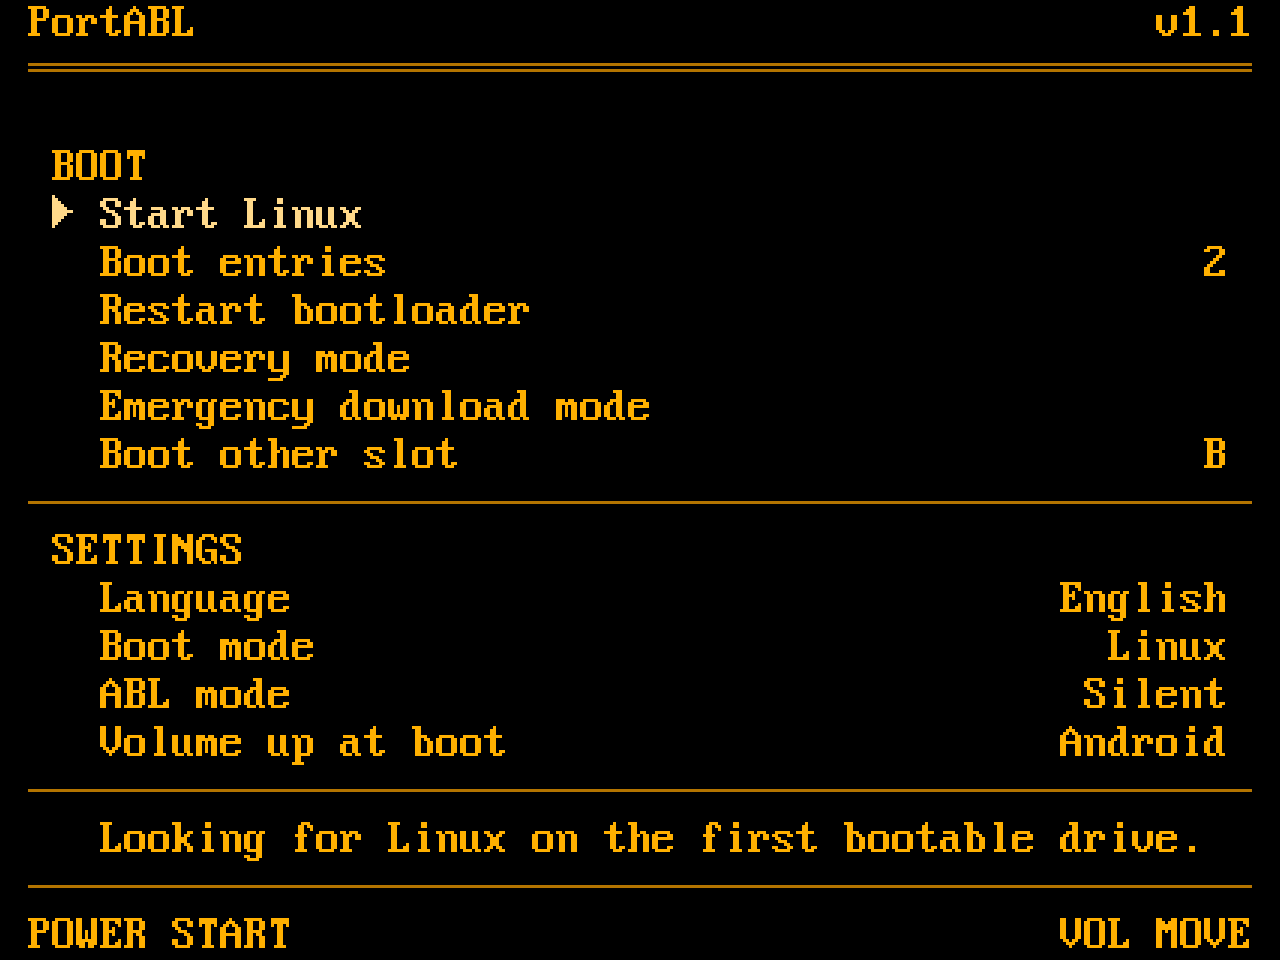
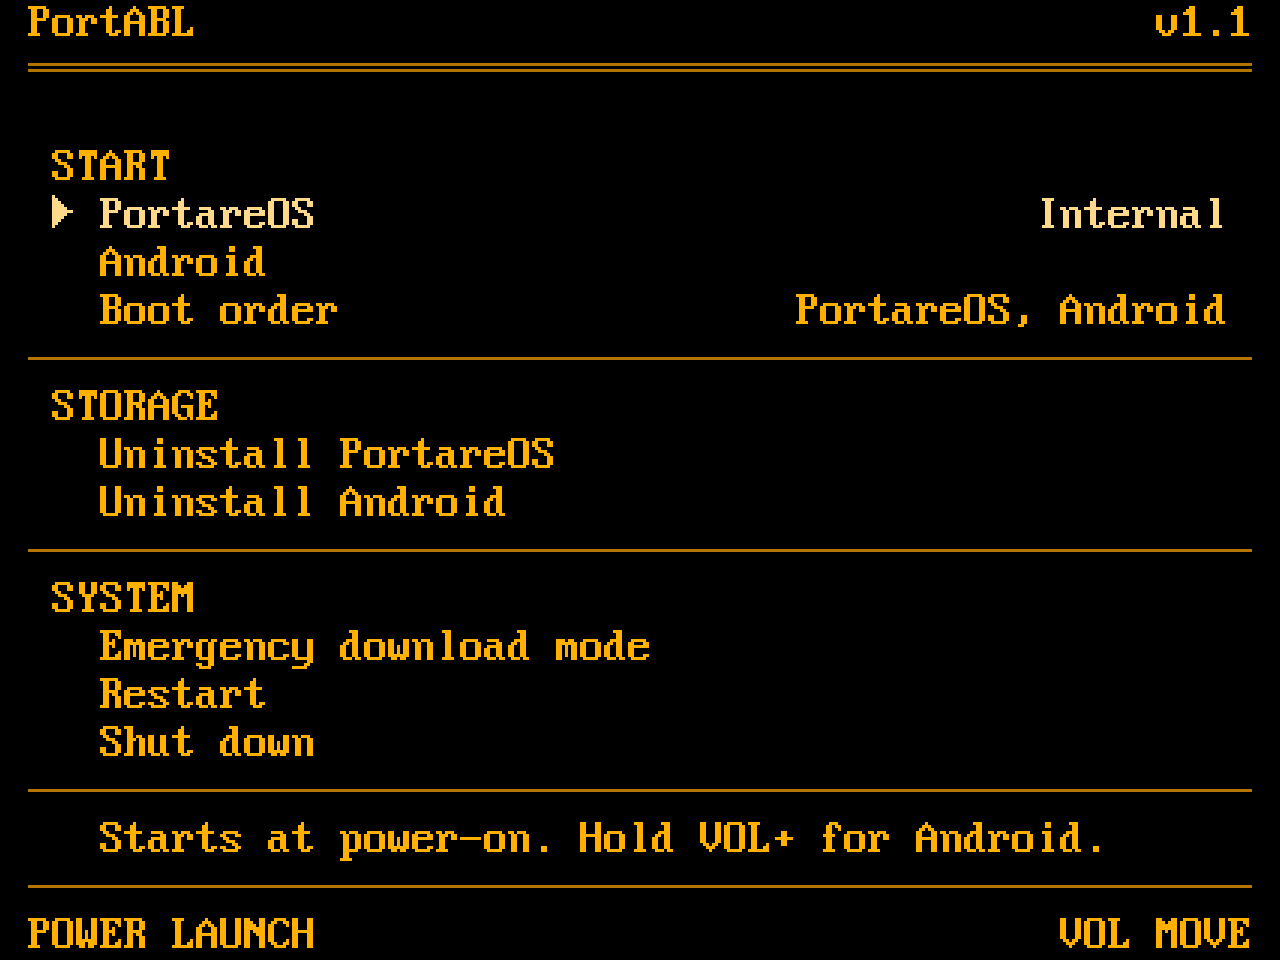
docs: mockup around PortareOS and Android, not OpenABL's options
The menu starts PortareOS or Android, sets which one power-on starts,
installs PortareOS from a card, uninstalls either system, and offers
EDL, restart and shut down. Language, rotation, boot source, entries,
model, ABL mode, logo, recovery, slots, log and device info are gone.

diff --git a/Scripts/mockup.py b/Scripts/mockup.py
@@ -20,6 +20,7 @@ import mockup_png as P
 COLS, ROWS = L.COLS, L.ROWS
 RULE, THIN, row, item = L.RULE, L.THIN, L.row, L.item
 VERSION = open(os.path.join(HERE, "..", "VERSION")).read().strip()
+ARROW = "→"
 
 # No clock: the ABL has the RTC's UTC, not the launcher's local time.
 def header(*crumbs):
@@ -45,129 +46,128 @@ def fill(lines, upto):
 def label(text):
     return "  " + text.upper()
 
-# The whole main menu as the Nova shows it: A/B slots, an internal install
-# (so Boot source and Uninstall CFW), the menu built into the ABL (so no
-# Menu timeout), and two places Start can boot from.
-MENU = [label("Boot"),
-        ("Start Linux", "", "START"),
-        ("Boot entries", "2", "OPEN"),
-        ("Restart bootloader", "", "SELECT"),
-        ("Recovery mode", "", "SELECT"),
-        ("Emergency download mode", "", "SELECT"),
-        ("Boot other slot", "B", "SELECT"),
-        THIN,
-        label("Settings"),
-        ("Language", "English", "CHANGE"),
-        ("Boot mode", "Linux", "CHANGE"),
-        ("ABL mode", "Silent", "CHANGE"),
-        ("Volume up at boot", "Android", "CHANGE"),
-        ("Boot source", "Auto", "CHANGE"),
-        ("Off-mode charging", "Off", "CHANGE"),
-        ("Display rotation", "Auto (90°)", "CHANGE"),
-        ("Custom boot logo", "Off", "CHANGE"),
-        ("Device model", "Retroid Pocket Nova", "OPEN"),
-        THIN,
-        label("System"),
-        ("Log", "", "OPEN"),
-        ("Device info", "", "OPEN"),
-        ("Uninstall CFW", "", "SELECT"),
-        ("Power off", "", "SELECT")]
-
-def menu_screen(selected, top, note=None):
-    """The list from row 3, scrolled to start at MENU[top]; a note takes
-    the block above the footer, as the launcher's Tools screen does."""
-    last = 15 if note else 17
+# A row is a section label, a rule, or (name, value, footer verb). Rows
+# that do not apply are left out rather than greyed: Install only with
+# PortareOS on a card and none inside, the uninstalls only with something
+# to uninstall, Android and Boot order only while Android is there.
+def menu_screen(rows, selected, note=None):
     lines = [header(), RULE, ""]
     verb = "SELECT"
-    for entry in MENU[top:top + last - 2]:
+    for entry in rows:
         if isinstance(entry, str):
             lines.append(entry)
-        else:
-            name, value, action = entry
-            lines.append(item(name == selected, name, value))
-            if name == selected:
-                verb = action
-    lines = fill(lines, last + 1)
+            continue
+        name, value, action = entry
+        lines.append(item(name == selected, name, value))
+        if name == selected:
+            verb = action
+    lines = fill(lines, 16 if note else ROWS - 2)
     if note:
         lines += [THIN, "    " + note]
     return lines + [THIN, footer(verb)]
 
-menu = menu_screen("Start Linux", 0,
-                   "Looking for Linux on the first bootable drive.")
-menu_settings = menu_screen("Boot source", 9)
+SYSTEM = [THIN, label("System"),
+          ("Emergency download mode", "", "SELECT"),
+          ("Restart", "", "SELECT"),
+          ("Shut down", "", "SELECT")]
 
-ENTRIES = [("Boot image", "Internal storage"), ("Boot image", "SD card")]
-entries = [header("Boot entries"), RULE, ""]
-entries += [item(i == 0, n, v) for i, (n, v) in enumerate(ENTRIES)]
-entries += ["", item(False, "Back")]
-entries = fill(entries, 16)
-entries += [THIN, "    KERNEL on PORTAREOS. Start tries it first.",
-            THIN, footer("START")]
+installed = [label("Start"),
+             ("PortareOS", "Internal", "LAUNCH"),
+             ("Android", "", "LAUNCH"),
+             ("Boot order", "PortareOS, Android", "CHANGE"),
+             THIN, label("Storage"),
+             ("Uninstall PortareOS", "", "SELECT"),
+             ("Uninstall Android", "", "SELECT")] + SYSTEM
+menu = menu_screen(installed, "PortareOS",
+                   "Starts at power-on. Hold VOL+ for Android.")
 
-INFO = [("Chip", "QCS8550"), ("RAM", "8 GB"), ("Storage", "128 GB UFS"),
-        ("Storage chip", "YMTC YMUS8B4TF1D1C1"), ("SD card", "Not inserted"),
-        ("Display", "960 x 1280, 90°"), ("Model", "Retroid Pocket Nova"),
-        ("Bootloader", "PortABL " + VERSION)]
-device_info = [header("Device info"), RULE, ""]
-device_info += [item(False, n, v) for n, v in INFO]
-device_info = fill(device_info, ROWS - 2) + [THIN, footer("BACK", "")]
+# Retroid's Android inside, a PortareOS card in the slot.
+first_time = [label("Start"),
+              ("PortareOS", "SD card", "LAUNCH"),
+              ("Android", "", "LAUNCH"),
+              ("Boot order", "PortareOS, Android", "CHANGE"),
+              THIN, label("Storage"),
+              ("Install PortareOS", "", "SELECT")] + SYSTEM
+menu_first_time = menu_screen(first_time, "Install PortareOS",
+                              "Copies PortareOS from the card to the Nova.")
 
-# What the ABL wrote while looking, as the Log screen lists it.
-LOG = ["Boot mode Linux, boot source Auto",
-       "Internal storage first: CFW after userdata",
-       "sda18 PORTAREOS: no loader entries",
-       "sda18 PORTAREOS: no extlinux.conf",
-       "sda18 PORTAREOS: no EFI\\BOOT\\BOOTAA64.EFI",
-       "sda18 PORTAREOS: boot image KERNEL, 46 MB",
-       "SD card: not inserted",
-       "2 boot entries, starting the first"]
-log = [header("Log"), RULE, ""]
-log += ["  " + l for l in LOG]
-log = fill(log, ROWS - 2) + [THIN, footer("BACK", "VOL SCROLL ")]
+# After Uninstall Android: nothing else to start, nothing to uninstall.
+android_gone = [label("Start"), ("PortareOS", "Internal", "LAUNCH")] + SYSTEM
+menu_no_android = menu_screen(android_gone, "PortareOS")
 
-def confirm(crumb, question, body, extra, yes):
+def confirm(crumb, question, body, extra, yes, sel="Cancel"):
     lines = [header(crumb), RULE, "", "  " + question, ""]
     lines += wrap(body)
     lines += extra
-    lines += ["", item(True, "Cancel"), item(False, yes)]
+    lines += ["", item(sel == "Cancel", "Cancel"), item(sel == yes, yes)]
     return fill(lines, ROWS - 2) + [THIN, footer("SELECT")]
+
+# A fresh Nova: userdata is everything after super, 108 GB.
+confirm_install = [header("Install PortareOS"), RULE, "",
+                   "  Install PortareOS?", ""]
+confirm_install += wrap("Copies PortareOS from the SD card to internal "
+                        "storage. Android's data is erased to make room.")
+confirm_install += ["", item(True, "Android keeps", "16 GB"),
+                    row("    PortareOS gets", "92 GB  "),
+                    "", item(False, "Cancel"), item(False, "Install")]
+confirm_install = fill(confirm_install, ROWS - 2) + [THIN, footer("CHANGE")]
+
+installing = [header("Install PortareOS"), RULE] + [""] * 4
+installing += ["           Installing PortareOS", "",
+               "           Copying SYSTEM, 1.4 of 2.1 GB", "",
+               "           Don't turn off the Nova."]
+installing = fill(installing, ROWS)
+
+# This Nova: super and userdata sit in front of PortareOS.
+confirm_uninstall_android = confirm(
+    "Uninstall Android", "Uninstall Android?",
+    "Erases Android and all of its data, and gives the space to PortareOS:",
+    ["", row("    super", "12.9 GB    "), row("    userdata", "1.1 GB    "),
+     "", row("    PortareOS storage", "105 %s 119 GB    " % ARROW)],
+    "Uninstall")
+
+confirm_uninstall_portareos = confirm(
+    "Uninstall PortareOS", "Uninstall PortareOS?",
+    "Erases PortareOS with its games and saves. Android gets the space "
+    "back and starts fresh:",
+    ["", row("    PORTAREOS", "2.1 GB    "), row("    PORTAREOS_STOR", "105 GB    ")],
+    "Uninstall")
 
 confirm_edl = confirm("Emergency download mode", "Enter emergency download mode?",
                       "The screen stays off in this mode. You'll need a computer "
                       "with Qualcomm flashing tools to leave it.", [], "Enter EDL")
 
-confirm_uninstall = confirm("Uninstall CFW", "Uninstall CFW?",
-                            "Erases these partitions, and all of Android's data "
-                            "with them:",
-                            ["", row("    PORTAREOS", "2.1 GB    "),
-                             row("    PORTAREOS_STOR", "105 GB    ")], "Uninstall")
-
 # Centred like the launcher's Launching screen.
 error = [header(), RULE] + [""] * 4
-error += ["           Couldn't boot Linux", ""]
-error += wrap("No bootable image was found on the selected boot source.", 11)
-error += [""] + wrap("Check the drive, or change Boot source in the menu.", 11)
+error += ["           Couldn't start PortareOS", ""]
+error += wrap("PortareOS isn't on internal storage or an SD card.", 11)
+error += [""] + wrap("Insert a PortareOS card and choose Install PortareOS.", 11)
 error = fill(error, ROWS - 2) + [THIN, footer("MENU", "")]
-ERROR_TITLE = (6, 11, 29)
+ERROR_TITLE = (6, 11, 34)
 
 starting = [header(), RULE] + [""] * 4
-starting += ["           Internal storage, boot image", "",
-             "           Starting Linux..."]
+starting += ["           PortareOS", "", "           Starting..."]
 starting = fill(starting, ROWS)
 
 SCREENS = [("menu", "MAIN MENU", menu, None),
-           ("menu-settings", "MAIN MENU, SCROLLED TO SETTINGS", menu_settings, None),
-           ("boot-entries", "BOOT ENTRIES", entries, None),
-           ("device-info", "DEVICE INFO", device_info, None),
-           ("log", "LOG", log, None),
+           ("menu-first-time", "MAIN MENU, FIRST TIME", menu_first_time, None),
+           ("menu-no-android", "MAIN MENU, ANDROID UNINSTALLED", menu_no_android, None),
+           ("confirm-install", "INSTALL PORTAREOS", confirm_install, None),
+           ("installing", "INSTALLING", installing, None),
+           ("confirm-uninstall-android", "UNINSTALL ANDROID",
+            confirm_uninstall_android, None),
+           ("confirm-uninstall-portareos", "UNINSTALL PORTAREOS",
+            confirm_uninstall_portareos, None),
            ("confirm-edl", "CONFIRM EDL", confirm_edl, None),
-           ("confirm-uninstall", "CONFIRM UNINSTALL", confirm_uninstall, None),
-           ("error-no-image", "NO BOOTABLE IMAGE", error, ([ERROR_TITLE], [])),
+           ("error-no-portareos", "NO PORTAREOS", error, ([ERROR_TITLE], [])),
            ("starting", "STARTING", starting, None)]
 
 if __name__ == "__main__":
     out = os.path.join(HERE, "..", "Docs", "mockup")
     os.makedirs(out, exist_ok=True)
+    for f in os.listdir(out):
+        if f.endswith(".png"):
+            os.remove(os.path.join(out, f))
     glyphs = P.font()
     for name, title, lines, spans in SCREENS:
         assert len(lines) == ROWS, (name, len(lines))
